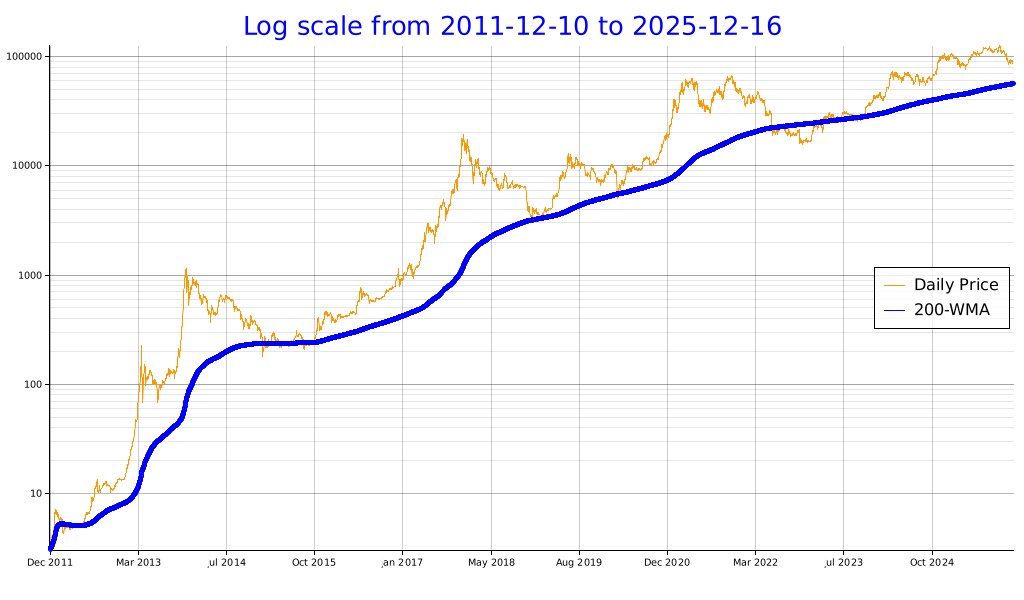
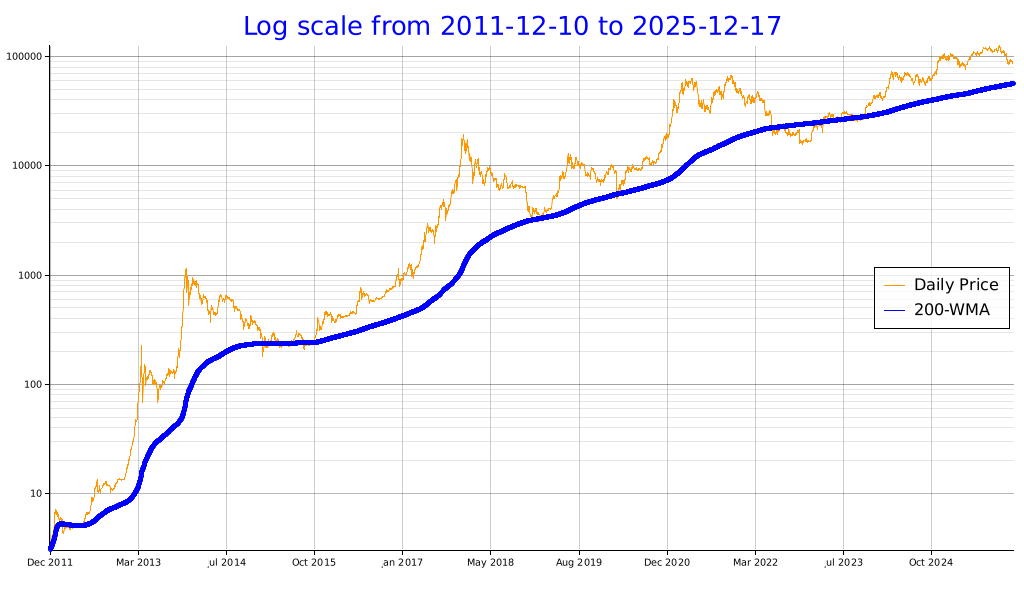
deploy: fbebbab4ab64577eb9c05b16167055638fc15f9a

Changed region(s): [[0.875, 0.93, 0.9375, 0.96], [0.4375, 0.93, 0.5, 0.96], [0.75, 0.03, 0.7812, 0.06]]

diff --git a/index.html b/index.html
@@ -34,7 +34,7 @@
           <td>126,198.07</td>
           <td>74,436.67</td>
           <td></td>
-          <td>18,858,148,626,432.0</td>
+          <td>18,857,259,433,984.0</td>
         </tr>
         <tr>
           <td class='yearly-summary-year'>2024</td>
@@ -227,7 +227,7 @@
     <br><br>
     <a href='https://github.com/bitcoin-tools/btracker'>Link to the report codebase</a>
     <br><br>
-    This report was last updated at 2025-12-16 23:53:35.619313923 UTC.
+    This report was last updated at 2025-12-17 01:48:16.195060439 UTC.
     <br><br>
     <div class='scrollable-table'>
       <table>
@@ -247,16 +247,16 @@
         </thead>
         <tbody>
           <tr>
-            <td>2025-12-16</td>
-            <td>86,424.43</td>
-            <td>87,950.71</td>
-            <td>85,381.68</td>
-            <td>87,748.49</td>
-            <td class='wma-column'>56,322.75</td>
-            <td>30.82 (0.05 %)</td>
-            <td>43,173.28 (96.8 %)</td>
-            <td>2,569.03 (2.9 %)</td>
-            <td>1,328.71 (1.5 %)</td>
+            <td>2025-12-17</td>
+            <td>87,842.86</td>
+            <td>87,875.71</td>
+            <td>87,415.86</td>
+            <td>87,562.56</td>
+            <td class='wma-column'>56,322.62</td>
+            <td>30.69 (0.05 %)</td>
+            <td>42,987.35 (96.4 %)</td>
+            <td>459.84 (0.5 %)</td>
+            <td>1,142.78 (1.3 %)</td>
           </tr>
           <tr>
             <td>2025-12-15</td>
